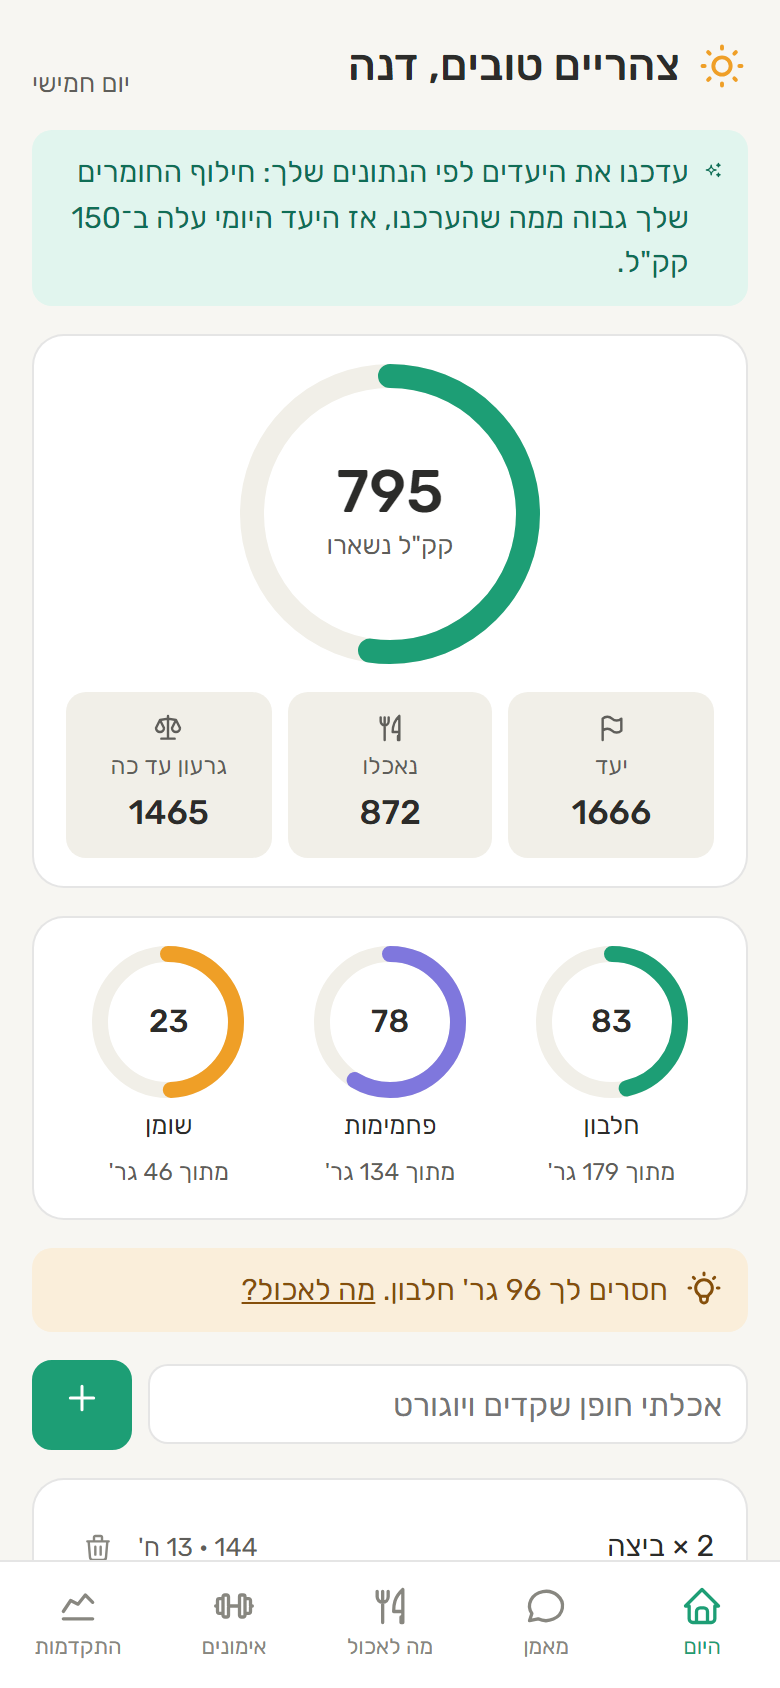
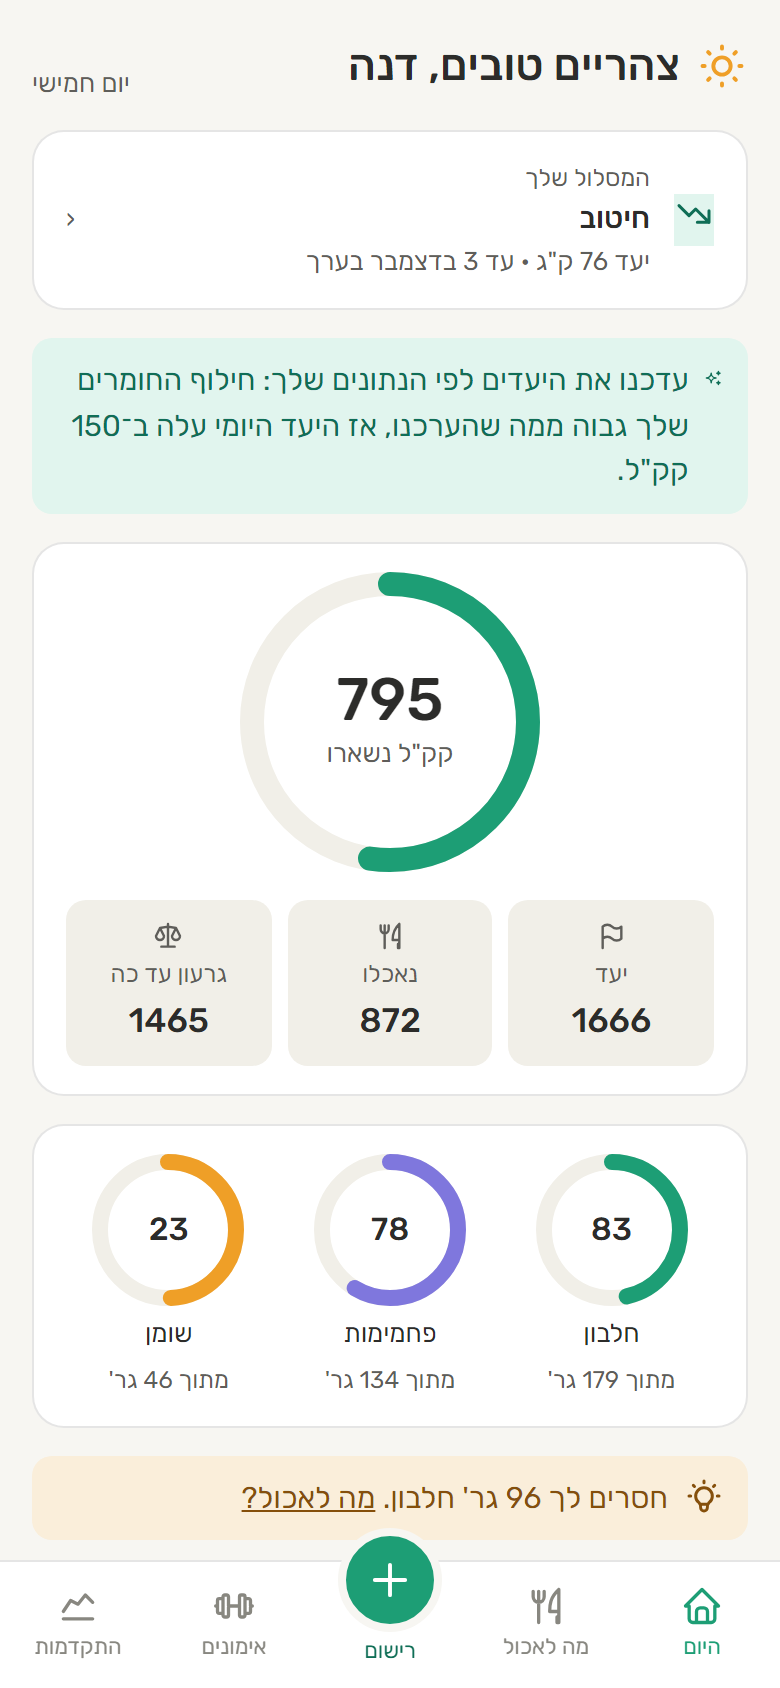
Clearer home screen and logging, .env support
- Home: 'your track' card (goal, target, estimated date), titled sections for today's
  meals and workouts with add buttons; the free-text box is gone (it duplicated the chat)
- The chat is now 'Smart log', reached from a raised + button in the middle of the nav
- Workouts: clearer streak labels and what a 'week on target' means
- Secrets load from a git-ignored .env (python-dotenv); .env.example documents them
- Fix: empty JWT_SECRET/ANTHROPIC_API_KEY values in .env now count as missing

diff --git a/frontend/src/pages/Today.tsx b/frontend/src/pages/Today.tsx
@@ -1,13 +1,12 @@
-import { useState } from 'react'
+import type { ReactNode } from 'react'
 import { Link } from 'react-router-dom'
-import { api, errorMessage } from '../api/client'
-import type { ChatReply, DailyStatus } from '../api/types'
-import { ActionCard } from '../components/ActionCard'
+import { api } from '../api/client'
+import type { DailyStatus, Goal } from '../api/types'
 import { Icon, type IconName } from '../components/Icon'
 import { Ring } from '../components/Ring'
 import { useApi } from '../hooks/useApi'
 import { useCountUp } from '../hooks/useCountUp'
-import { activityName, greeting, weekdayName } from '../labels'
+import { GOAL_LABELS, activityName, formatDate, greeting, weekdayName } from '../labels'
 import { useUser } from '../user'
 
 export function Today() {
@@ -20,6 +19,7 @@ export function Today() {
   return (
     <>
       <Greeting day={data.day} />
+      <GoalCard />
       {data.target_update && <TargetUpdateBanner status={data} />}
       <CalorieCard status={data} />
       <MacroRings status={data} />
@@ -31,8 +31,8 @@ export function Today() {
         </Link>
       )}
 
-      <QuickAdd onLogged={reload} />
-      <FoodLog status={data} onChange={reload} />
+      <Meals status={data} onChange={reload} />
+      <TodaysWorkouts status={data} onChange={reload} />
     </>
   )
 }
@@ -128,90 +128,96 @@ function TargetUpdateBanner({ status }: { status: DailyStatus }) {
   )
 }
 
-/** Free-text logging right from the dashboard - goes through the AI coach, with confirmation. */
-function QuickAdd({ onLogged }: { onLogged: () => void }) {
-  const [text, setText] = useState('')
-  const [sending, setSending] = useState(false)
-  const [result, setResult] = useState<ChatReply | null>(null)
-  const [error, setError] = useState<string | null>(null)
+const GOAL_ICONS: Record<Goal, IconName> = { cut: 'trendDown', bulk: 'trendUp', maintain: 'equal' }
 
-  async function send() {
-    if (!text.trim()) return
-    setSending(true)
-    setError(null)
-    try {
-      setResult(await api.chat(text.trim()))
-      setText('')
-    } catch (e) {
-      setError(errorMessage(e))
-    } finally {
-      setSending(false)
-    }
+/** The user's chosen track, always visible at the top: goal, target weight and the estimated date. */
+function GoalCard() {
+  const user = useUser()
+  const { data: progress } = useApi(api.progress)
+  const plan = progress?.plan
+
+  let detail = 'שומרים על המשקל הנוכחי'
+  if (user.target_weight_kg != null) {
+    detail = `יעד ${user.target_weight_kg} ק"ג`
+    if (plan?.target_date) detail += ` · עד ${formatDate(plan.target_date)} בערך`
+    else if (plan && plan.weeks_to_target === null) detail += ' · הגעת ליעד!'
   }
 
   return (
-    <div className="stack">
-      <form className="row" onSubmit={(e) => { e.preventDefault(); send() }}>
-        <input
-          className="input" value={text} onChange={(e) => setText(e.target.value)}
-          placeholder="אכלתי חופן שקדים ויוגורט" disabled={sending} aria-label="מה אכלת או עשית?"
-        />
-        <button className="btn primary" disabled={sending} aria-label="הוספה">
-          <Icon name={sending ? 'sparkles' : 'plus'} />
-        </button>
-      </form>
-      {error && <p className="error-text">{error}</p>}
-      {result && (
-        <>
-          <p className="muted fade-in">{result.reply}</p>
-          {result.actions.map((a) => <ActionCard key={a.id} action={a} onResolved={onLogged} />)}
-        </>
-      )}
+    <Link to="/progress" className="card row fade-in" style={{ textDecoration: 'none', color: 'inherit', gap: 12 }}>
+      <span className="stat-icon" style={{ background: 'var(--accent-soft)', color: 'var(--accent-text)' }}>
+        <Icon name={GOAL_ICONS[user.goal]} size={20} />
+      </span>
+      <span style={{ flex: 1 }}>
+        <div className="muted" style={{ fontSize: 12 }}>המסלול שלך</div>
+        <div style={{ fontWeight: 500 }}>{GOAL_LABELS[user.goal]}</div>
+        <div className="muted">{detail}</div>
+      </span>
+      <span className="muted">‹</span>
+    </Link>
+  )
+}
+
+/** A titled card with an "add" button that opens the smart log (the AI chat). */
+function Section(props: { title: string; icon: IconName; addLabel: string; children: ReactNode }) {
+  return (
+    <div className="card stack" style={{ gap: 6 }}>
+      <div className="row">
+        <h2 className="row" style={{ gap: 6 }}><Icon name={props.icon} /> {props.title}</h2>
+        <Link to="/log" className="btn small" style={{ textDecoration: 'none' }}>
+          <Icon name="plus" size={14} /> {props.addLabel}
+        </Link>
+      </div>
+      {props.children}
     </div>
   )
 }
 
-function FoodLog({ status, onChange }: { status: DailyStatus; onChange: () => void }) {
-  if (status.entries.length === 0 && status.workouts.length === 0) {
-    return (
-      <div className="card" style={{ textAlign: 'center' }}>
-        <div className="empty-icon"><Icon name="kitchen" size={28} /></div>
-        <p>עוד לא רשמת כלום היום</p>
-        <p className="muted">כתוב למעלה מה אכלת, או <Link to="/chat">דבר עם המאמן</Link></p>
-      </div>
-    )
-  }
-
-  async function remove(kind: 'food' | 'workout', id: number) {
-    await (kind === 'food' ? api.deleteFood(id) : api.deleteWorkout(id))
+function Meals({ status, onChange }: { status: DailyStatus; onChange: () => void }) {
+  async function remove(id: number) {
+    await api.deleteFood(id)
     onChange()
   }
-
   return (
-    <div className="card">
+    <Section title="מה אכלתי היום" icon="kitchen" addLabel="הוספת אוכל">
+      {status.entries.length === 0 && (
+        <p className="muted">עוד לא רשמת אוכל היום. לחץ על "הוספת אוכל" וכתוב בחופשיות מה אכלת.</p>
+      )}
       {status.entries.map((e) => (
-        <div key={e.id} className="row" style={{ padding: '6px 0', borderBottom: '0.5px solid var(--border)' }}>
+        <div key={e.id} className="row" style={{ padding: '4px 0', borderBottom: '0.5px solid var(--border)' }}>
           <span>{e.servings !== 1 ? `${e.servings} × ` : ''}{e.description}</span>
           <span className="row muted" style={{ gap: 4 }}>
-            {Math.round(e.kcal)} · {Math.round(e.protein_g)} ח'
-            <button className="btn icon" onClick={() => remove('food', e.id)} aria-label={`מחיקת ${e.description}`}>
+            {Math.round(e.kcal)} קק"ל · {Math.round(e.protein_g)} ח'
+            <button className="btn icon" onClick={() => remove(e.id)} aria-label={`מחיקת ${e.description}`}>
               <Icon name="trash" size={16} />
             </button>
           </span>
         </div>
       ))}
+    </Section>
+  )
+}
+
+function TodaysWorkouts({ status, onChange }: { status: DailyStatus; onChange: () => void }) {
+  async function remove(id: number) {
+    await api.deleteWorkout(id)
+    onChange()
+  }
+  return (
+    <Section title="האימונים שלי היום" icon="barbell" addLabel="הוספת אימון">
+      {status.workouts.length === 0 && <p className="muted">עוד לא נרשם אימון היום.</p>}
       {status.workouts.map((w) => (
-        <div key={w.id} className="row" style={{ padding: '6px 0' }}>
-          <span><Icon name="run" size={16} /> {activityName(w.activity)} {w.minutes} דק'</span>
+        <div key={w.id} className="row" style={{ padding: '4px 0' }}>
+          <span><Icon name="run" size={16} /> {activityName(w.activity)} · {w.minutes} דק'</span>
           <span className="row" style={{ gap: 4, color: 'var(--accent)' }}>
-            +{Math.round(w.kcal)}
-            <button className="btn icon" onClick={() => remove('workout', w.id)} aria-label="מחיקת אימון">
+            +{Math.round(w.kcal)} קק"ל
+            <button className="btn icon" onClick={() => remove(w.id)} aria-label="מחיקת אימון">
               <Icon name="trash" size={16} />
             </button>
           </span>
         </div>
       ))}
-    </div>
+    </Section>
   )
 }
 

diff --git a/frontend/src/pages/Workouts.tsx b/frontend/src/pages/Workouts.tsx
@@ -30,7 +30,7 @@ export function Workouts() {
       </div>
 
       {week.data ? <WeekSummary week={week.data} /> : <div className="skeleton" style={{ height: 200 }} />}
-      {stats.data && <StatsGrid stats={stats.data} />}
+      {stats.data && <StatsGrid stats={stats.data} goal={week.data?.goal ?? 0} />}
       <LogWorkout onLogged={() => { week.reload(); stats.reload(); insights.reload() }} />
 
       <h2>תובנות</h2>
@@ -54,16 +54,17 @@ function lastWorkoutText(days: number | null): string {
   return `לפני ${days} ימים`
 }
 
-function StatsGrid({ stats }: { stats: WorkoutStats }) {
+function StatsGrid({ stats, goal }: { stats: WorkoutStats; goal: number }) {
   const items: { icon: IconName; color: string; label: string; value: string }[] = [
     { icon: 'clock', color: 'var(--carbs)', label: 'אימון אחרון', value: lastWorkoutText(stats.days_since_last) },
-    { icon: 'flame', color: '#D85A30', label: 'רצף שבועות ביעד', value: `${stats.current_week_streak} שבועות` },
-    { icon: 'trophy', color: 'var(--fat)', label: 'השיא שלך', value: `${stats.best_week_streak} שבועות` },
+    { icon: 'flame', color: '#D85A30', label: 'שבועות ברצף ביעד', value: `${stats.current_week_streak}` },
+    { icon: 'trophy', color: 'var(--fat)', label: 'שיא שבועות ברצף', value: `${stats.best_week_streak}` },
     { icon: 'calendar', color: 'var(--accent)', label: 'החודש', value: `${stats.this_month} אימונים` },
     { icon: 'run', color: 'var(--cardio)', label: 'דקות השבוע', value: `${Math.round(stats.minutes_this_week)}` },
     { icon: 'heart', color: 'var(--danger)', label: 'האהוב עליך', value: stats.favorite_activity ? activityName(stats.favorite_activity) : '—' },
   ]
   return (
+    <div className="stack" style={{ gap: 6 }}>
     <div className="grid-2">
       {items.map((item) => (
         <div key={item.label} className="stat-tile">
@@ -74,6 +75,10 @@ function StatsGrid({ stats }: { stats: WorkoutStats }) {
           </span>
         </div>
       ))}
+    </div>
+    <p className="muted" style={{ fontSize: 12 }}>
+      "שבוע ביעד" הוא שבוע עם לפחות {goal} אימונים (היעד השבועי שלך). הרצף סופר שבועות כאלה ברציפות.
+    </p>
     </div>
   )
 }

diff --git a/frontend/src/pages/Chat.tsx b/frontend/src/pages/Chat.tsx
@@ -60,17 +60,20 @@ export function Chat() {
   return (
     <>
       <div className="page-header">
-        <h1>המאמן</h1>
+        <h1>רישום חכם</h1>
         <span className="muted"><Icon name="sparkles" size={16} /> AI</span>
       </div>
+      <p className="muted" style={{ marginTop: -8 }}>
+        כתוב בחופשיות מה אכלת או איך התאמנת. אני אחשב קלוריות וערכים, ותאשר לפני שזה נשמר.
+        אפשר גם לשאול שאלות, כמו "מה לאכול לערב?"
+      </p>
 
       {loaded && messages.length === 0 && (
         <div className="card stack fade-in">
           <div className="row" style={{ justifyContent: 'flex-start' }}>
             <Logo size={36} />
-            <p>היי {user.name}! ספר לי מה אכלת או איך התאמנת, ואני ארשום ואחשב בשבילך.</p>
+            <p>היי {user.name}! מה אכלת או איך התאמנת היום? נסה אחת מהדוגמאות:</p>
           </div>
-          <p className="muted">כל רישום מחכה לאישור שלך לפני שהוא נשמר.</p>
           <div className="chips">
             {EXAMPLES.map((ex) => (
               <button key={ex} className="chip" onClick={() => send(ex)}>{ex}</button>

diff --git a/frontend/src/components/BottomNav.tsx b/frontend/src/components/BottomNav.tsx
@@ -1,10 +1,10 @@
 import { NavLink } from 'react-router-dom'
 import { Icon, type IconName } from './Icon'
 
-const TABS: { to: string; label: string; icon: IconName }[] = [
+const TABS: { to: string; label: string; icon: IconName; main?: boolean }[] = [
   { to: '/', label: 'היום', icon: 'home' },
-  { to: '/chat', label: 'מאמן', icon: 'chat' },
   { to: '/meal', label: 'מה לאכול', icon: 'kitchen' },
+  { to: '/log', label: 'רישום', icon: 'plus', main: true }, // the smart log: chat with the AI
   { to: '/workouts', label: 'אימונים', icon: 'barbell' },
   { to: '/progress', label: 'התקדמות', icon: 'chart' },
 ]
@@ -14,8 +14,10 @@ export function BottomNav() {
     <nav className="nav" aria-label="ניווט ראשי">
       <div className="nav-inner">
         {TABS.map((tab) => (
-          <NavLink key={tab.to} to={tab.to} end>
-            <Icon name={tab.icon} size={22} />
+          <NavLink key={tab.to} to={tab.to} end className={tab.main ? 'nav-main' : undefined}>
+            {tab.main
+              ? <span className="nav-main-button"><Icon name={tab.icon} size={26} /></span>
+              : <Icon name={tab.icon} size={22} />}
             {tab.label}
           </NavLink>
         ))}

diff --git a/frontend/src/index.css b/frontend/src/index.css
@@ -227,3 +227,14 @@ label.field { display: flex; flex-direction: column; gap: 4px; font-size: 13px; 
   background: none; border: none; padding: 0; cursor: pointer;
   color: var(--accent-text); text-decoration: underline; font-size: inherit;
 }
+
+/* The raised "+ Log" button in the middle of the bottom nav */
+.nav a.nav-main { color: var(--accent-text); }
+.nav-main-button {
+  width: 52px; height: 52px; margin-top: -26px; border-radius: 50%;
+  display: grid; place-items: center; color: #fff; background: var(--accent);
+  border: 4px solid var(--bg); transition: transform 0.15s;
+}
+.nav a.nav-main:hover .nav-main-button { transform: scale(1.06); }
+.nav a.nav-main.active .nav-main-button { transform: rotate(45deg); } /* the + turns into an x while you're there */
+.nav a.nav-main.active svg { animation: none; }

diff --git a/frontend/src/App.tsx b/frontend/src/App.tsx
@@ -64,7 +64,7 @@ export default function App() {
           <BrowserRouter>
             <Routes>
               <Route path="/" element={<Today />} />
-              <Route path="/chat" element={<Chat />} />
+              <Route path="/log" element={<Chat />} />
               <Route path="/meal" element={<Meal />} />
               <Route path="/workouts" element={<Workouts />} />
               <Route path="/progress" element={<Suspense fallback={<Loader />}><Progress /></Suspense>} />

diff --git a/fitflow/api/deps.py b/fitflow/api/deps.py
@@ -50,7 +50,7 @@ def get_agent() -> CoachAgent:
     agent = _shared_agent()
     client = agent.client
     # Without credentials the SDK would fail deep inside the request; fail early with a clear message.
-    if client.api_key is None and client.auth_token is None and client.credentials is None:
+    if not client.api_key and not client.auth_token and client.credentials is None:  # empty counts as missing
         raise HTTPException(503, "The coach is not configured: set ANTHROPIC_API_KEY on the server")
     return agent
 

diff --git a/fitflow/services/auth.py b/fitflow/services/auth.py
@@ -19,7 +19,8 @@ import jwt
 
 # In production JWT_SECRET must be set to a long random value. The development fallback is
 # fine locally, but anyone who knows it could forge tokens - never deploy with it.
-JWT_SECRET = os.getenv("JWT_SECRET", "dev-only-insecure-secret-change-me")
+# `or`, not a getenv default: an empty JWT_SECRET= line in .env must also fall back.
+JWT_SECRET = os.getenv("JWT_SECRET") or "dev-only-insecure-secret-change-me"
 JWT_ALGORITHM = "HS256"
 TOKEN_LIFETIME = timedelta(days=7)
 

diff --git a/scripts/screenshots.py b/scripts/screenshots.py
@@ -22,7 +22,7 @@ from scripts.seed_demo import DEMO_EMAIL
 
 APP_URL = os.getenv("APP_URL", "http://localhost:5173")
 OUT = Path(__file__).resolve().parents[1] / "docs" / "screenshots"
-PAGES = [("today", "/"), ("chat", "/chat"), ("meal", "/meal"), ("workouts", "/workouts"), ("progress", "/progress")]
+PAGES = [("today", "/"), ("chat", "/log"), ("meal", "/meal"), ("workouts", "/workouts"), ("progress", "/progress")]
 
 
 def main() -> None:

diff --git a/fitflow/__init__.py b/fitflow/__init__.py
@@ -1,0 +1,5 @@
+from dotenv import load_dotenv
+
+# Read secrets (ANTHROPIC_API_KEY, JWT_SECRET...) from a local .env file into the environment.
+# The .env file is in .gitignore, so secrets never reach git. Variables that are already set win.
+load_dotenv()
